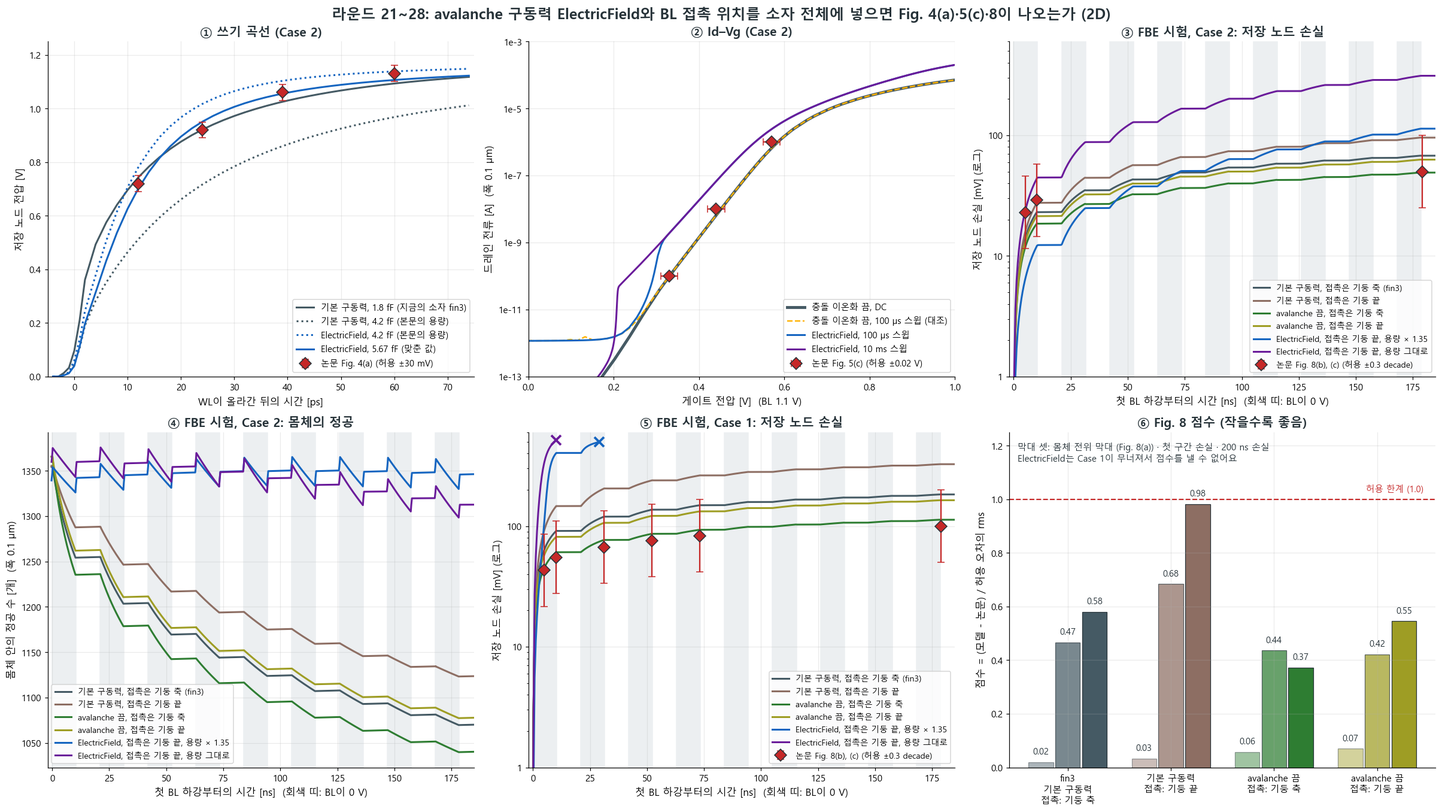
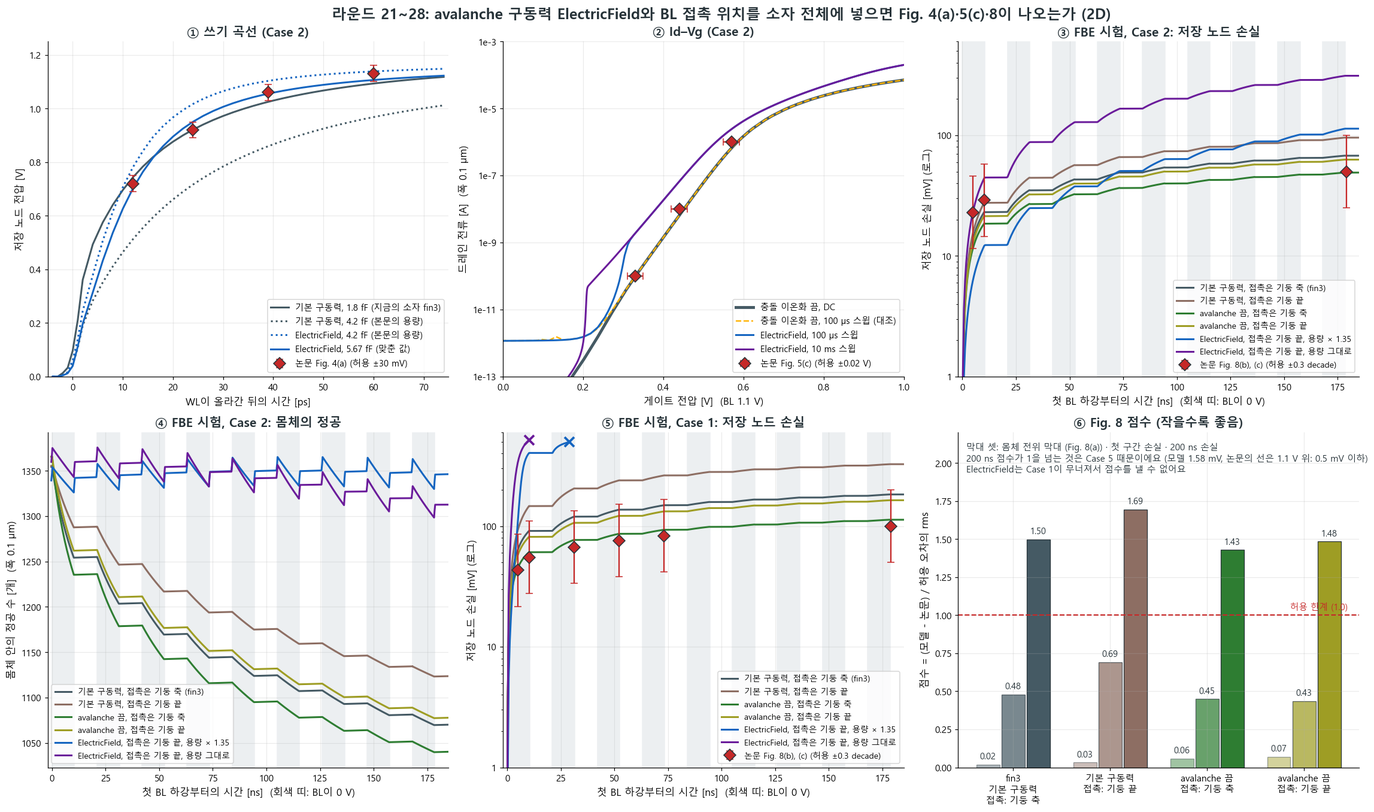
Case 5 re-read: the paper's curve stays on the 1.1 V line; the model's 1.58 mV at 200 ns are a tunnelling leak, not inside
No new runs. The model's Case 5 loss is band-to-band tunnelling at the storage-node junction (13.6 pA, same rate
with the BL low and high, holes stay); the floating-body part is zero as in the paper. Zoom of Fig.8(c) re-read:
0.45 mV per pixel row, Case 5 on the frame row up to 196 ns. Scorer: such a case counts linearly (loss / 0.5 mV).
L2 of fin3 0.58 -> 1.50 (Case 5 alone). Tool gt_fbe_leak.py, table, analysis 4.11, status.

diff --git a/claude/project/tools/gt_fbe_leak.py b/claude/project/tools/gt_fbe_leak.py
@@ -1,0 +1,28 @@
+# gt_fbe_leak.py <run id> ... : FBE runs, what the storage-node loss is made of. Per run, from t_A (just before the first BL fall) to
+# 200 ns of the paper's axis: the loss in mV and as electrons (loss x Cs / q), the electron-hole pairs made in that span by band-to-band
+# tunnelling and by impact ionization (100 nm wide device = integral x 1e-13), the holes in the body at both ends, and the rate of the
+# loss inside the BL-low phases and inside the BL-high phases (0.6 ns away from the edges). A floating-body loss sits in the BL-low
+# phases and takes holes out of the body; a leak that tunnelling at the storage-node junction makes (GIDL) has the same rate in both
+# phases, one electron per pair, and leaves its holes in the body. The last column is the rate in the last 10 ns of the hold.
+import sys, os, glob, json
+sys.path.insert(0, os.path.dirname(os.path.abspath(__file__)))
+from gt_tran import load, at, edges
+from gt_fbe_pairs import cum, W
+RUNS = os.environ.get("GT_RUNS") or os.path.join(os.path.dirname(os.path.abspath(__file__)), "..", "runs"); q = 1.602e-19
+print("run        Cs[fF] | loss t_A -> 200 ns [mV] = electrons | pairs: tunnelling, impact ion. | holes at t_A -> 200 ns | loss rate [uV/ns]: BL low, BL high | = current [pA]: low, high | last 10 ns of the hold")
+for rid in sys.argv[1:]:
+    d = os.path.join(RUNS, rid)
+    try:
+        s = load(os.path.join(d, rid + "_sys.plt")); dv = load(glob.glob(os.path.join(d, "*_dev.plt"))[0]); p = json.load(open(os.path.join(d, "run.json"), encoding="utf-8"))["params"]
+    except Exception as e: print(rid, "no data", e); continue
+    t = s["time"]; T = dv["time"]; k = lambda n: next(x for x in s if n in x); sn = s[k("nSN)")]; bl = s[k("nBL")]
+    f = edges(t, bl, 0, 1.1, False); r = [x for x in edges(t, bl, 0, 1.1, True) if f and x > f[0]]
+    if not f or min(t[-1], T[-1]) < f[0] + 179e-9: print(rid, "does not reach 200 ns"); continue
+    tA = f[0] - 3e-10; tE = f[0] + 179e-9; C = p["Cs"]
+    bb = cum(T, dv[next(x for x in dv if "Band2BandGeneration" in x)]); ii = cum(T, dv[next(x for x in dv if "ImpactIonization" in x)]); hd = dv[next(x for x in dv if "hDensity" in x)]
+    L = (at(t, sn, tA) - at(t, sn, tE)) * 1e3
+    lo = sum(at(t, sn, a + 6e-10) - at(t, sn, b - 6e-10) for a, b in zip(f, r)) / sum((b - 6e-10) - (a + 6e-10) for a, b in zip(f, r))                  # V/s inside the low phases
+    hi = sum(at(t, sn, b + 6e-10) - at(t, sn, a - 6e-10) for b, a in zip(r, f[1:])) / sum((a - 6e-10) - (b + 6e-10) for b, a in zip(r, f[1:]))        # V/s inside the high phases
+    pre = (at(t, sn, tA - 1e-8) - at(t, sn, tA)) / 1e-8
+    print(f"{rid:10s} {C * 1e15:5.2f}  | {L:8.3f} = {L * 1e-3 * C / q:7.1f}            | {(at(T, bb, tE) - at(T, bb, tA)) * W:9.1f} {(at(T, ii, tE) - at(T, ii, tA)) * W:9.1f}       | "
+          f"{at(T, hd, tA) * W:6.0f} -> {at(T, hd, tE) * W:6.0f}      | {lo * 1e-3:8.2f} {hi * 1e-3:7.2f}                 | {lo * C * 1e12:8.1f} {hi * C * 1e12:6.1f}        | {pre * 1e-3:6.2f} uV/ns")

diff --git a/claude/project/tools/gt_avg_tab.py b/claude/project/tools/gt_avg_tab.py
@@ -34,15 +34,15 @@ for tag in sys.argv[1:]:
         o = D[c]; e = EARLY.get(c)
         print(f"   {c}    {o['holes']:5.0f} | {o['avg0']:5.0f} {o['avg1']:5.0f} [{P.FBE_RISE[c]}]" + " " * 34 + f"| {o['cen']:5.0f}" + " " * 15 + f"| {o['sn']:.4f}   | {o['l3']:6.2f} {o['l5']:6.2f}"
               + (f" [{e[1]} at +{e[0]}]" if e else "") + " | " + " ".join(f"{x:7.2f}" for x in o["ph"][:4]) + f"  {o['ph'][8]:7.2f}"
-              + (" [" + " ".join(map(str, PH[c])) + "]" if c in PH else f" [{P.FBE_FIRST[c]}]") + f" | {o['l200']:7.2f} [{P.FBE_200[c]}]")
+              + (" [" + " ".join(map(str, PH[c])) + "]" if c in PH else f" [{P.FBE_FIRST[c]}]") + f" | {o['l200']:7.2f} [{'on the 1.1 V line' if c in P.FBE_FLAT else P.FBE_200[c]}]")
     for lab, key in (("read just before the fall", "avg0"), ("read 0.25 ns after the fall", "avg1")):
         db = [D[c][key] - P.FBE_RISE[c] for c in range(1, 6)]
         print(f"   bars, {lab}: deviation " + " / ".join(f"{x:+.0f}" for x in db) + f" mV (tolerance {P.FBE_RISE_TOL:.0f}): {sum(abs(x) <= P.FBE_RISE_TOL for x in db)} of 5 inside")
     dec = lambda m, p_: math.log10(max(m, P.FLOOR) / p_)
-    d1 = [dec(D[c]["ph"][0], P.FBE_FIRST[c]) for c in range(1, 5)]; d2 = [dec(D[c]["l200"], P.FBE_200[c]) for c in range(1, 6)]
+    d1 = [dec(D[c]["ph"][0], P.FBE_FIRST[c]) for c in range(1, 5)]; d2 = [dec(D[c]["l200"], P.FBE_200[c]) for c in range(1, 5)]; fl = P.FBE_FLAT[5]
     de = [dec(D[c]["l5"] if EARLY[c][0] == 5 else D[c]["l3"], EARLY[c][1]) for c in range(1, 5)]
-    print(f"   first low phase: deviation " + " / ".join(f"{x:+.2f}" for x in d1) + f" decades (tolerance {P.DEC_TOL}), Case 5 {D[5]['ph'][0]:.2f} mV (paper 0, tolerance 1 mV): "
-          f"{sum(abs(x) <= P.DEC_TOL for x in d1) + (D[5]['ph'][0] <= 1.0)} of 5 inside")
-    print(f"   200 ns: deviation " + " / ".join(f"{x:+.2f}" for x in d2) + f" decades: {sum(abs(x) <= P.DEC_TOL for x in d2)} of 5 inside;   3 or 5 ns after the fall: " + " / ".join(f"{x:+.2f}" for x in de)
+    print(f"   first low phase: deviation " + " / ".join(f"{x:+.2f}" for x in d1) + f" decades (tolerance {P.DEC_TOL}), Case 5 {D[5]['ph'][0]:.2f} mV (paper: on the 1.1 V line, tolerance {fl} mV): "
+          f"{sum(abs(x) <= P.DEC_TOL for x in d1) + (D[5]['ph'][0] <= fl)} of 5 inside")
+    print(f"   200 ns: deviation " + " / ".join(f"{x:+.2f}" for x in d2) + f" decades, Case 5 {D[5]['l200']:.2f} mV (paper: on the 1.1 V line, tolerance {fl} mV): {sum(abs(x) <= P.DEC_TOL for x in d2) + (D[5]['l200'] <= fl)} of 5 inside;   3 or 5 ns after the fall: " + " / ".join(f"{x:+.2f}" for x in de)
           + f" decades: {sum(abs(x) <= P.DEC_TOL for x in de)} of 4 inside")
     if all(x == x for x in D[1]["ph"][:4]): print("   Case 1 after low phases 2 - 4: " + " / ".join(f"{x:.0f}" for x in D[1]["ph"][1:4]) + " mV (paper 67 / 76 / 83); Case 4 after two phases: " + f"{D[4]['ph'][1]:.1f} mV (paper 5.2 at 63 ns)")

diff --git a/claude/project/tools/plot_ef_refit.py b/claude/project/tools/plot_ef_refit.py
@@ -69,13 +69,14 @@ d.set(xlim=(-2, 185), xlabel="첫 BL 하강부터의 시간 [ns]  (회색 띠: B
 d.set_title("④ FBE 시험, Case 2: 몸체의 정공", fontsize=13.5, fontweight="bold", color=INK)
 # (f) Fig.8 scores of four configurations
 CF = (("fin3", "fin3\n기본 구동력\n접촉: 기둥 축", FIN), ("fin3b", "기본 구동력\n접촉: 기둥 끝", END), ("fin3n", "avalanche 끔\n접촉: 기둥 축", OFF), ("fin3bn", "avalanche 끔\n접촉: 기둥 끝", OFE))
+tops = []
 for i, (tag, lab, cl) in enumerate(CF):
-    v, txt = S.fbe(tag); print(tag, [round(x, 2) for x in v], txt)
+    v, txt = S.fbe(tag); print(tag, [round(x, 2) for x in v], txt); tops.append(max(v))
     for j, (x, al) in enumerate(zip(v, (0.45, 0.72, 1.0))):
         g.bar(i + (j - 1) * 0.26, x, 0.24, color=cl, alpha=al, ec=INK, lw=0.8); g.text(i + (j - 1) * 0.26, x + 0.02, f"{x:.2f}", ha="center", va="bottom", fontsize=9.5, color=INK)
 g.axhline(1.0, color=PAP, lw=1.4, ls="--"); g.text(3.45, 1.02, "허용 한계 (1.0)", color=PAP, fontsize=9.5, ha="right", va="bottom")
-g.set_xticks(range(len(CF))); g.set_xticklabels([q[1] for q in CF], fontsize=10); g.set_ylabel("점수 = (모델 - 논문) / 허용 오차의 rms", fontsize=11); g.set_ylim(0, 1.25)
-g.text(0.02, 0.97, "막대 셋: 몸체 전위 막대 (Fig. 8(a)) · 첫 구간 손실 · 200 ns 손실\nElectricField는 Case 1이 무너져서 점수를 낼 수 없어요", transform=g.transAxes, fontsize=9.8, va="top", color=INK)
+g.set_xticks(range(len(CF))); g.set_xticklabels([q[1] for q in CF], fontsize=10); g.set_ylabel("점수 = (모델 - 논문) / 허용 오차의 rms", fontsize=11); g.set_ylim(0, max(1.25, max(tops) * 1.3))
+g.text(0.02, 0.97, "막대 셋: 몸체 전위 막대 (Fig. 8(a)) · 첫 구간 손실 · 200 ns 손실\n200 ns 점수가 1을 넘는 것은 Case 5 때문이에요 (모델 1.58 mV, 논문의 선은 1.1 V 위: 0.5 mV 이하)\nElectricField는 Case 1이 무너져서 점수를 낼 수 없어요", transform=g.transAxes, fontsize=9.8, va="top", color=INK)
 g.set_title("⑥ Fig. 8 점수 (작을수록 좋음)", fontsize=13.5, fontweight="bold", color=INK)
 for q in (a, b, c, d, e, g):
     q.grid(alpha=0.25)

diff --git a/claude/project/tools/paper_targets.py b/claude/project/tools/paper_targets.py
@@ -15,7 +15,11 @@ SN_START = 1.10                                       # every FBE / RH curve sta
 FBE_RISE = {1: 555, 2: 445, 3: 365, 4: 320, 5: 368}   # Fig.8(a): body potential rise t = 0 -> t_A [mV]
 FBE_RISE_TOL = 30.0
 FBE_FIRST = {1: 55, 2: 29, 3: 7.1, 4: 3.5, 5: 0.0}    # Fig.8(b), (c): loss at the end of the first low phase [mV]
-FBE_200 = {1: 100, 2: 50, 3: 14.6, 4: 7.0, 5: 1.0}    # loss at 200 ns [mV]
+FBE_200 = {1: 100, 2: 50, 3: 14.6, 4: 7.0, 5: 1.0}    # loss at 200 ns [mV]; Case 5: the first reading's upper bound, kept for the log plots
+# Case 5 re-read on 2026-10-07 (NOTES (bo)): in the zoom of Fig.8(c) (0.45 mV per pixel row) its curve stays on the 1.1 V frame row up to
+# 196 ns (centre of the blue-tinted pixels within 0.2 mV of that row). A case named here is scored linearly, loss / this value [mV], at
+# both instants, in place of the log scale against FBE_FIRST / FBE_200.
+FBE_FLAT = {5: 0.5}
 RH = {"yy": 0.0535, "zz": 0.0100}                     # Fig.6(e), impact ionization off: mV per cycle (Y-Y', Z-Z'); X-X' 0.0060 needs 3D
 RH_II = {"yy": 0.0535, "zz_drop": 520.0, "zz_gnd": 0.036}    # Fig.7: Y-Y' unchanged; Z-Z' 1.1 -> 0.58 V in the window [mV]; grounded body 16.8k cycles
 DEC_TOL = 0.3                                         # decades, for losses and per-cycle numbers

diff --git a/claude/project/tools/score2d.py b/claude/project/tools/score2d.py
@@ -76,8 +76,9 @@ def fbe(tag):
         rise = (at(T, dv[ka[0]], f[0] + AVGREAD[tag]) - dv[ka[0]][0]) * 1e3 if ka else (at(T, dv[kv], tA) - dv[kv][0]) * 1e3; v0 = at(t, sn, t0)
         l1 = (v0 - at(t, sn, r[0] - 3e-10)) * 1e3; l2 = (v0 - at(t, sn, min(t[-1], t0 + 2e-7))) * 1e3 if t[-1] >= t0 + 1.9e-7 else None
         er.append((rise - P.FBE_RISE[c]) / P.FBE_RISE_TOL)
-        e1.append(elog(l1, P.FBE_FIRST[c]) if P.FBE_FIRST[c] > 0 else l1 / 1.0)
-        if l2 is not None: e2.append(elog(l2, P.FBE_200[c]))
+        flat = P.FBE_FLAT.get(c)                      # curve on the 1.1 V line in the paper: linear, loss / reading error
+        e1.append(l1 / flat if flat else elog(l1, P.FBE_FIRST[c]))
+        if l2 is not None: e2.append(l2 / flat if flat else elog(l2, P.FBE_200[c]))
         txt.append(f"c{c} rise {rise:+.0f} first {l1:.2f} 200ns {'-' if l2 is None else format(l2, '.2f')} (SN0 {v0:.3f})")
     return (rms(er), rms(e1), rms(e2)), "; ".join(txt)
 

diff --git a/claude/project/NOTES.md b/claude/project/NOTES.md
@@ -3,6 +3,44 @@
 Newest first. Entries (ai) .. (as) were written while this work still lived in `bcvfet_tcad`; file and run names in them are
 the ones of that time (structures `gx_*` / `gp_*` are the meshes before the doping went per region, `gr_*` the current ones).
 
+## 2026-10-07 (bo) user: "why is the paper's Case 5 at 0 at the start, what differs from ours?" - in the model, too, Case 5 loses nothing to the floating body; its 0.13 -> 1.58 mV is tunnelling at the storage-node junction (13.6 pA). The paper's curve stays on the 1.1 V line: the 1.58 mV at 200 ns are NOT inside. Score target corrected
+- No new runs. Tool: `gt_fbe_leak.py` (loss as electrons, pairs by tunnelling / impact ionization, holes in the body, rate of the loss inside
+  the BL-low and inside the BL-high phases).
+- Model, `fin3` (Ds2F), from t_A to 200 ns:
+    case | loss [mV] = electrons | pairs: tunnelling / impact ion. | holes t_A -> 200 ns | rate BL low / BL high [uV/ns] = [pA]
+    1    | 182.9  = 2496         |    7.1 / 310.3                  | 1579 -> 1139        | 1932 / 3.17 = 4222 / 6.9
+    2    |  67.8  =  761         |    0.4 / 119.1                  | 1354 -> 1070        |  732 / 5.62 = 1317 / 10.1
+    3    |  13.8  =  133         |  -12.8 /  23.9                  | 1294 -> 1011        |  145 / 6.23 =  224 / 9.6
+    4    |  10.1  =   97         |   -7.7 /  17.6                  | 1118 ->  832        |  105 / 5.71 =  162 / 8.8
+    5    |   1.577 =  15.2       |   14.0 /   1.8                  | 1335 -> 1351        | 8.82 / 8.78 = 13.6 / 13.6
+  Case 5: the same rate with the BL low and with the BL high, the holes stay in the body (they grow by the 16 pairs), electrons lost =
+  pairs made (15.2 against 15.8). That is the leak of the storage-node junction under the gate edge (band-to-band tunnelling with the
+  WL at 0 V and the node at 1.1 V; (au): 3.44 MV/cm at that corner), not a floating-body loss. The same with the avalanche model off
+  (DdlF_c5: 15.7 pairs, 1.577 mV), with 1134 / 1413 holes in the body (Dh1F_c5, DfinF_c5: 14.0 / 13.9 pairs), and in every case while the
+  BL is high (6.9 - 10.1 pA in Cases 1 - 4; Case 5 has the most, as its GIDL branch in Fig.5(c) is the highest).
+  The floating-body part of Case 5 is zero because its threshold is 0.30 V higher (Fig.5(c): 0.57 / 0.69 / 0.81 V against 0.27 / 0.39 /
+  0.51 V of Case 4; paper 0.53 / 0.65 / 0.78 against 0.26 / 0.39 / 0.51). The paper's own label in Fig.8(c) says the same (V_th0 larger
+  with WF 5.0 eV).
+- Paper, zoom of Fig.8(c) read again from the embedded image (frame rows 462 .. 683 = 1.1 .. 1.0 V, 0.452 mV per row; check of the scale:
+  Case 3 ends 14.0 mV down, Case 4 goes 2.8 -> 5.0 mV before the inset hides it): the blue-tinted pixels of Case 5 sit ON the top frame
+  row from 124 ns to 196 ns (their centre -0.12 .. +0.17 mV from that row in six bands of 20 columns; before 124 ns the tint cannot be
+  told from the frame). So the paper's Case 5 is "on the 1.1 V line within one pixel row (0.45 mV)" over the whole 200 ns, not "0 -> 1.0
+  mV": the 1.0 of `paper_targets.FBE_200[5]` was the upper bound of the first reading ((au): "within 1 mV").
+- What follows: the 0.13 mV of the first low phase are below a pixel, there is no difference to explain. At 200 ns the model's 1.58 mV
+  would lie 3.5 rows under the frame: NOT what the paper shows. With the text's 3.6 fF the same 15 - 17 electrons are 0.68 - 0.74 mV
+  (Db0F_c5: 0.738 mV), 1.6 rows. Bound from the figure: I <= C x 0.45 mV / 179 ns = 3.9 pA (1.54 fF) or 9.1 pA (3.6 fF); the model has
+  13.6 pA. Two things the paper leaves open decide it: the storage capacitor of the transient (1.54 fF for the 10 nm bodies from the fit
+  of the write curve, 3.6 fF in the text) and the size of the tunnelling leak in the hold state. The Hurkx A was fitted at Vg = -1 V of
+  Fig.5(c), where the field is 0.91 MV/cm ((au)); the hold corner has 3.44 MV/cm, so the hold leak is an extrapolation and goes as
+  exp(B x 8.1e-7 cm/V) against the fitted point. Estimate from those two fields, NOT run: B 2.25e7 -> 2.1e7 V/cm with A re-fitted (about
+  3.5e20) would cut the hold leak by about 3. The same change makes the GIDL branch less steep, and the model's minimum current is 0.2 -
+  0.9 decade under the paper's in all five cases (-17.1 .. -17.3 against -16.4 .. -16.9).
+- Scoring corrected (my reading, not a new condition): `paper_targets.FBE_FLAT = {5: 0.5}`: a case whose curve stays on the 1.1 V line is
+  scored linearly, loss / 0.5 mV, at both instants (`score2d.py`, `gt_avg_tab.py`; FBE_200[5] = 1.0 stays for the log plots). Scores L1 /
+  L2 now: fin2 2.97 / 2.01 (was 2.97 / 1.44), fin 0.85 / 1.47 (0.84 / 0.51), `fin3` 0.48 / 1.50 (0.47 / 0.58), fin3b 0.69 / 1.69 (0.68 /
+  0.98), fin3n 0.45 / 1.43 (0.44 / 0.37), fin3bn 0.43 / 1.48 (0.42 / 0.55). Cases 1 - 4 are unchanged; the whole rise of L2 is Case 5 at
+  200 ns (1.58 / 0.5 = 3.2). "Every number of Fig.8 inside its tolerance" ((bk)) holds for 14 of the 15 numbers, not for this one.
+
 ## 2026-10-07 (bn) user: "run (가)" - the device set up with the driving force ElectricField and the BL contact at the pillar end (rounds 21 - 28): it does not carry Fig.5(c) and Fig.8. By-products: the contact position sets the gain of the parasitic BJT; without any avalanche model Fig.8 fits better
 - Why: (bm) left the driving force coupled to the write curve (with ElectricField the text's 4.2 fF nearly fits Fig.4(a)) and the Fig.7
   candidate needing a BL contact at the pillar end, while `fin3` has the default driving force and the contact on the pillar axis. The user

diff --git a/claude/reports/GT_IRPS2026_2D_소자완성_보고_2026-10-06.md b/claude/reports/GT_IRPS2026_2D_소자완성_보고_2026-10-06.md
@@ -570,3 +570,44 @@ ElectricField에서 용량을 5.04 / 5.88 / 6.72 fF로 바꾸면 점수가 1.03 
 |---|---|---|
 | A. Fig. 4(a)·8에서 avalanche 모델 | 끔: 0.73 / 1.11 / 0.06 / 0.44 / 0.37. 켬 (지금): 0.73 / 0.93 / 0.02 / 0.47 / 0.58 | 끔. 논문은 이 모델을 Fig. 7에서만 말해요. 끄면 Fig. 7의 구동력이 다른 그림과 묶이지 않아요 |
 | B. BL 접촉 위치 | 기둥 축 (지금). 기둥 끝: A를 끈 상태에서 0.73 / 1.12 / 0.07 / 0.42 / 0.55 | 기둥 끝. Fig. 7 후보는 이 접촉에서만 살아요. 대가는 200 ns 점수 0.37 → 0.55 |
+
+### 9.18 Case 5: 논문의 0과 우리의 0.13 mV (2026-10-07 밤, 사용자 질문)
+
+**질문 (사용자).** Case 5에서 논문은 시작이 0인데, 우리(0.13 mV)와 무엇이 달라서인가.
+
+**한 줄로.** 첫 구간의 0과 0.13 mV는 차이가 아니에요. 논문 그림의 픽셀 한 줄이 0.45 mV라서 0.13 mV는 보이지 않아요. FBE 누설이 없다는 점은 우리 모델도 논문과 같아요. 우리 값 0.13 → 1.58 mV는 FBE가 아니라 저장 노드 접합의 GIDL 누설이에요. 진짜 차이는 200 ns에 있어요. 우리 1.58 mV, 논문 0.5 mV 이하예요. 새 실행은 없어요.
+
+**용어.** GIDL(gate-induced drain leakage): 게이트가 0 V이고 옆의 N+가 1.1 V일 때, 게이트 가장자리 접합의 강한 전기장에서 band-to-band tunnelling으로 전자–정공 쌍이 생기는 누설이에요. 전자는 N+(저장 노드)로, 정공은 몸체로 가요.
+
+1. **논문이 0인 이유.** 논문은 Fig. 8(c)에 "V_th0(WF = 5.0 eV) > V_th0(WF = 4.7 eV)"라고 적었어요. 게이트 일함수가 0.3 eV 크면 문턱 전압이 약 0.3 V 높아요 (Fig. 5(c)에서 Case 4 0.26 / 0.39 / 0.51 V, Case 5 0.53 / 0.65 / 0.78 V). subthreshold 전류는 60 mV마다 10배씩 줄어요. 0.3 V면 10⁵배 작아요. 그래서 몸체 전위가 368 mV 올라도 WL 0 V에서 채널이 열리지 않아요.
+2. **우리 모델도 같아요.** `fin3`의 Case 5 (`project/tools/gt_fbe_leak.py`):
+
+| | Case 3 | Case 4 | Case 5 |
+|---|---:|---:|---:|
+| 손실 속도, BL이 0 V인 구간 [µV/ns] | 145 | 105 | 8.82 |
+| 손실 속도, BL이 1.1 V인 구간 [µV/ns] | 6.2 | 5.7 | 8.78 |
+| 몸체의 정공, t_A → 200 ns [개] | 1294 → 1011 | 1118 → 832 | 1335 → 1351 |
+| 노드가 잃은 전자, t_A → 200 ns [개] | 133 | 97 | 15.2 |
+| 그동안 생긴 쌍: tunnelling / 충돌 이온화 | −12.8 / 23.9 | −7.7 / 17.6 | 14.0 / 1.8 |
+
+   - FBE 손실은 BL이 0 V일 때만 생기고, 몸체의 정공이 빠져나가요 (Case 3, 4).
+   - Case 5는 BL이 높든 낮든 속도가 같아요. 정공도 빠져나가지 않아요. 잃은 전자 15.2개는 생긴 쌍 15.8개와 같아요.
+   - 즉 Case 5의 손실은 전부 저장 노드 접합의 GIDL이에요. 전류로는 13.6 pA예요 (I = C·dV/dt = 1.54 fF × 8.8 µV/ns).
+   - 이 누설은 다른 Case에도 있어요 (BL이 높은 구간 6.9~10.1 pA). FBE 손실에 가려 있을 뿐이에요.
+   - avalanche 모델을 꺼도, 몸체의 정공을 1134 / 1413개로 바꿔도 같아요 (1.58 / 1.60 / 1.57 mV).
+3. **논문 그림을 다시 읽었어요.** Fig. 8(c) 확대 그림은 한 픽셀 줄이 0.45 mV예요 (1.0~1.1 V가 221줄. Case 3의 끝값 14.0 mV로 눈금을 확인). Case 5의 파란 선은 124 ns부터 196 ns까지 1.1 V 틀 선과 같은 줄에 있어요 (중심이 −0.12 ~ +0.17 mV). 그러니 논문의 Case 5는 "0 → 1.0 mV"가 아니라 "200 ns까지 0.5 mV 이하"예요. 표에 쓴 1.0은 처음 읽을 때의 상한("1 mV 이내")이었어요.
+4. **그래서 차이는 200 ns예요.** 우리 1.58 mV는 그 그림에서 3.5줄 아래라서 보였어야 해요. 논문에는 없어요. 후보는 둘이에요.
+   - 저장 노드 용량: 같은 전자 15~17개가 본문의 3.6 fF에서는 0.68~0.74 mV예요 (3.6 fF로 돌린 `Db0F_c5`: 0.738 mV). 우리는 쓰기 곡선에 맞춘 1.54 fF를 써요.
+   - GIDL의 크기: Hurkx 계수 A는 Fig. 5(c)의 Vg = −1 V 한 점에 맞췄어요. 거기의 전기장은 0.91 MV/cm예요. FBE 조건의 저장 노드 모서리는 3.44 MV/cm예요. 그래서 이 누설은 맞춘 범위 밖의 외삽이고, 계수 B에 민감해요.
+   - 그림이 허용하는 누설: 1.54 fF면 3.9 pA 이하, 3.6 fF면 9.1 pA 이하 (I ≤ C × 0.45 mV / 179 ns). 우리 모델은 13.6 pA예요.
+   - 어느 쪽인지는 논문에서 가릴 수 없어요. 역산 대상이에요.
+5. **점수표를 고쳤어요.** 1.1 V 선 위에 있는 Case는 로그가 아니라 "손실 / 0.5 mV"로 채점해요 (`paper_targets.FBE_FLAT`). Case 1~4의 값은 그대로예요.
+
+| 구성 | 첫 구간 점수 (전 → 후) | 200 ns 점수 (전 → 후) |
+|---|---:|---:|
+| `fin3` | 0.47 → 0.48 | 0.58 → 1.50 |
+| `fin3` + 끝 접촉 | 0.68 → 0.69 | 0.98 → 1.69 |
+| avalanche 끔, 축 접촉 | 0.44 → 0.45 | 0.37 → 1.43 |
+| avalanche 끔, 끝 접촉 | 0.42 → 0.43 | 0.55 → 1.48 |
+
+   200 ns 점수가 1을 넘는 것은 Case 5 하나 때문이에요 (1.58 / 0.5 = 3.2). "Fig. 8의 모든 값이 허용치 안"이라고 한 것은 15개 중 14개에 대해서만 맞아요.

diff --git a/claude/ANALYSIS.md b/claude/ANALYSIS.md
@@ -552,6 +552,47 @@ BL 주기별로 본 Case 2 (`project/tools/gt_fbe_pairs.py`):
 
 avalanche 모델을 Fig. 4(a)·5(c)·8에서 빼면 Fig. 7의 구동력을 무엇으로 고르든 다른 그림이 움직이지 않아요. 5.7절에서 걸렸던 "커패시터와 구동력이 묶여 있다"는 문제가 없어져요. 다만 이것은 사용자 조건을 바꾸는 일이라 채택하지 않았어요. `fin3`는 그대로예요.
 
+### 4.11 Case 5: 논문의 0과 우리의 0.13 mV, 그리고 200 ns의 차이 (2026-10-07 밤, 사용자 질문)
+
+**질문 (사용자).** Case 5에서 논문은 시작이 0인데, 우리(0.13 mV)와 무엇이 달라서인가.
+
+**한 줄로.** 첫 구간의 0과 0.13 mV는 차이가 아니에요. 논문 그림의 픽셀 한 줄이 0.45 mV라서 0.13 mV는 보이지 않아요. FBE 누설이 없다는 점은 우리 모델도 논문과 같아요. 우리 값 0.13 → 1.58 mV는 FBE가 아니라 저장 노드 접합의 GIDL 누설이에요. 진짜 차이는 200 ns에 있어요. 우리 1.58 mV, 논문 0.5 mV 이하예요. 새 실행은 없어요.
+
+**용어.** GIDL(gate-induced drain leakage): 게이트가 0 V이고 옆의 N+가 1.1 V일 때, 게이트 가장자리 접합의 강한 전기장에서 band-to-band tunnelling으로 전자–정공 쌍이 생기는 누설이에요. 전자는 N+(저장 노드)로, 정공은 몸체로 가요.
+
+1. **논문이 0인 이유.** 논문은 Fig. 8(c)에 "V_th0(WF = 5.0 eV) > V_th0(WF = 4.7 eV)"라고 적었어요. 게이트 일함수가 0.3 eV 크면 문턱 전압이 약 0.3 V 높아요 (Fig. 5(c)에서 Case 4 0.26 / 0.39 / 0.51 V, Case 5 0.53 / 0.65 / 0.78 V). subthreshold 전류는 60 mV마다 10배씩 줄어요. 0.3 V면 10⁵배 작아요. 그래서 몸체 전위가 368 mV 올라도 WL 0 V에서 채널이 열리지 않아요.
+2. **우리 모델도 같아요.** `fin3`의 Case 5 (`project/tools/gt_fbe_leak.py`):
+
+| | Case 3 | Case 4 | Case 5 |
+|---|---:|---:|---:|
+| 손실 속도, BL이 0 V인 구간 [µV/ns] | 145 | 105 | 8.82 |
+| 손실 속도, BL이 1.1 V인 구간 [µV/ns] | 6.2 | 5.7 | 8.78 |
+| 몸체의 정공, t_A → 200 ns [개] | 1294 → 1011 | 1118 → 832 | 1335 → 1351 |
+| 노드가 잃은 전자, t_A → 200 ns [개] | 133 | 97 | 15.2 |
+| 그동안 생긴 쌍: tunnelling / 충돌 이온화 | −12.8 / 23.9 | −7.7 / 17.6 | 14.0 / 1.8 |
+
+   - FBE 손실은 BL이 0 V일 때만 생기고, 몸체의 정공이 빠져나가요 (Case 3, 4).
+   - Case 5는 BL이 높든 낮든 속도가 같아요. 정공도 빠져나가지 않아요. 잃은 전자 15.2개는 생긴 쌍 15.8개와 같아요.
+   - 즉 Case 5의 손실은 전부 저장 노드 접합의 GIDL이에요. 전류로는 13.6 pA예요 (I = C·dV/dt = 1.54 fF × 8.8 µV/ns).
+   - 이 누설은 다른 Case에도 있어요 (BL이 높은 구간 6.9~10.1 pA). FBE 손실에 가려 있을 뿐이에요.
+   - avalanche 모델을 꺼도, 몸체의 정공을 1134 / 1413개로 바꿔도 같아요 (1.58 / 1.60 / 1.57 mV).
+3. **논문 그림을 다시 읽었어요.** Fig. 8(c) 확대 그림은 한 픽셀 줄이 0.45 mV예요 (1.0~1.1 V가 221줄. Case 3의 끝값 14.0 mV로 눈금을 확인). Case 5의 파란 선은 124 ns부터 196 ns까지 1.1 V 틀 선과 같은 줄에 있어요 (중심이 −0.12 ~ +0.17 mV). 그러니 논문의 Case 5는 "0 → 1.0 mV"가 아니라 "200 ns까지 0.5 mV 이하"예요. 표에 쓴 1.0은 처음 읽을 때의 상한("1 mV 이내")이었어요.
+4. **그래서 차이는 200 ns예요.** 우리 1.58 mV는 그 그림에서 3.5줄 아래라서 보였어야 해요. 논문에는 없어요. 후보는 둘이에요.
+   - 저장 노드 용량: 같은 전자 15~17개가 본문의 3.6 fF에서는 0.68~0.74 mV예요 (3.6 fF로 돌린 `Db0F_c5`: 0.738 mV). 우리는 쓰기 곡선에 맞춘 1.54 fF를 써요.
+   - GIDL의 크기: Hurkx 계수 A는 Fig. 5(c)의 Vg = −1 V 한 점에 맞췄어요. 거기의 전기장은 0.91 MV/cm예요. FBE 조건의 저장 노드 모서리는 3.44 MV/cm예요. 그래서 이 누설은 맞춘 범위 밖의 외삽이고, 계수 B에 민감해요.
+   - 그림이 허용하는 누설: 1.54 fF면 3.9 pA 이하, 3.6 fF면 9.1 pA 이하 (I ≤ C × 0.45 mV / 179 ns). 우리 모델은 13.6 pA예요.
+   - 어느 쪽인지는 논문에서 가릴 수 없어요. 역산 대상이에요.
+5. **점수표를 고쳤어요.** 1.1 V 선 위에 있는 Case는 로그가 아니라 "손실 / 0.5 mV"로 채점해요 (`paper_targets.FBE_FLAT`). Case 1~4의 값은 그대로예요.
+
+| 구성 | 첫 구간 점수 (전 → 후) | 200 ns 점수 (전 → 후) |
+|---|---:|---:|
+| `fin3` | 0.47 → 0.48 | 0.58 → 1.50 |
+| `fin3` + 끝 접촉 | 0.68 → 0.69 | 0.98 → 1.69 |
+| avalanche 끔, 축 접촉 | 0.44 → 0.45 | 0.37 → 1.43 |
+| avalanche 끔, 끝 접촉 | 0.42 → 0.43 | 0.55 → 1.48 |
+
+   200 ns 점수가 1을 넘는 것은 Case 5 하나 때문이에요 (1.58 / 0.5 = 3.2). "Fig. 8의 모든 값이 허용치 안"이라고 한 것은 15개 중 14개에 대해서만 맞아요.
+
 ## 5. 로우 해머
 
 ### 5.1 WL 저항 200 kΩ (Fig. 7(b)의 R)

diff --git a/claude/project/CLAUDE.md b/claude/project/CLAUDE.md
@@ -93,13 +93,13 @@ Run names must differ by more than letter case (the PC's file system is case-bli
   `-w` write phase, `-k` sizing of the hole supply), `gt_fig5c.py` (Id-Vg against Fig.5(c)), `gt_fig4a.py` (write curve), `gt_tran.py` (transients: loss, probes,
   generation), `gt_fbe_tab.py` (five FBE cases against Fig.8 in one table), `gt_avg_tab.py` (the same with the reading of `fin3`), row-hammer
   pairs: `gt_rh_hist.py` (node per cycle per configuration), `gt_rh_pairs.py` (pairs and holes per cycle, holes through each contact),
-  `gt_rh_body.py`, `gt_rh_wave.py` (inside the cycles), `gt_write_tab.py` (write runs against Fig.4(a)), `gt_fbe_pairs.py` (pairs and body holes per BL period of an FBE run), `plot_ef_refit.py` (picture of rounds 21 - 28), `_rh_tab.sh` + `plot_rh_transfer.py` (table and picture of rounds 16 - 19), `gt_hold.py`, `gt_iv_at.py`, `gt_steps.py` (how a
+  `gt_rh_body.py`, `gt_rh_wave.py` (inside the cycles), `gt_write_tab.py` (write runs against Fig.4(a)), `gt_fbe_pairs.py` (pairs and body holes per BL period of an FBE run), `gt_fbe_leak.py` (what the loss is made of: electrons, pairs, rate with the BL low / high), `plot_ef_refit.py` (picture of rounds 21 - 28), `_rh_tab.sh` + `plot_rh_transfer.py` (table and picture of rounds 16 - 19), `gt_hold.py`, `gt_iv_at.py`, `gt_steps.py` (how a
   run stepped), `gt_map.sh` (peak field / generation in a window of a saved plot), `man_grep.sh` (search the installed
   Sentaurus manual), `gt_log.sh`, `plot_gt.py`, `plot_gt3.py`. `tools/_q.sh` = scratch script for one-off server queries that
   need quotes or loops (the remote shell is tcsh).
 - `NOTES.md`: decisions, checks and results, newest first. Keep it current.
 
-## State (2026-10-07; details NOTES (ax) .. (bn))
+## State (2026-10-07; details NOTES (ax) .. (bo))
 **User, 2026-10-07: the authors cannot be asked. What the paper leaves open is back-calculated from its figures and labelled as such.**
 Back-calculated so far (NOTES (bk)): Fig.8(a) reads the body potential as the AVERAGE electrostatic potential of the body under the gate,
 counted from the start of the transient, at the first BL edge (not the body-centre point before the fall: with that reading bars and
@@ -135,6 +135,13 @@ Rounds 15 - 20 of 2026-10-07 (NOTES (bl), (bm)); `fin3` is unchanged by them:
   only), stand-in rate x 1.23 / 1.195 / 1.14 / 1.135 / 1.18: 0.73 / 1.11 / 0.06 / 0.44 / 0.37 with the axis contact (`fin3n`), 0.73 / 1.12 / 0.07 /
   0.42 / 0.55 with the end contact (`fin3bn`); the driving force of Fig.7 then touches no other figure. "Impact ionization on in the FBE"
   is the user's condition of 2026-10-06 and stands until the user changes it.
+- Case 5 looked at again (NOTES (bo), `tools/gt_fbe_leak.py`): in the model it loses nothing to the floating body (same loss rate with the
+  BL low and high, the holes stay); its 0.13 -> 1.58 mV is band-to-band tunnelling at the storage-node junction, 13.6 pA. In the zoom
+  of Fig.8(c) the paper's curve stays on the 1.1 V line within one pixel row (0.45 mV) up to 196 ns, so the 1.58 mV at 200 ns are NOT
+  inside. The scorer now counts a case on the 1.1 V line linearly (loss / 0.5 mV, `paper_targets.FBE_FLAT`). Scores first-phase / 200 ns
+  with that: `fin3` 0.48 / 1.50, fin3b 0.69 / 1.69, fin3n 0.45 / 1.43, fin3bn 0.43 / 1.48 (the values 0.47 / 0.58 etc. above were made
+  with 1.0 mV as Case 5's value; Cases 1 - 4 are unchanged). Open: storage capacitor of the transient (1.54 fF fitted, 3.6 fF in the
+  text) or the hold-state tunnelling leak (Hurkx B is not fixed by the one point of Fig.5(c) that A was fitted to).
 What follows describes `fin2`, the configuration before this step.
 The 2D device is configuration `fin2` = the runs DfinI_c1..5, DfinW_c2, Dh1F_c1..5, DfinR* (`COMPOSE` in tools/score2d.py; the
 user's decisions of the afternoon of 2026-10-06 are in it):

diff --git a/claude/STATUS.md b/claude/STATUS.md
@@ -1,12 +1,21 @@
-# 현황 — Claude, 2026-10-07 19:05 KST
+# 현황 — Claude, 2026-10-07 19:45 KST
 
 범위는 2D 단면 모델이에요. 3D는 구조를 다시 만들어 논문 Fig. 2와 맞춰 본 데까지 했고, 실행은 사용자 지시를 기다려요.
 
 ## 한 줄로
 
-Id–Vg(Fig. 5(c)), 쓰기 곡선(Fig. 4(a)), FBE(Fig. 8)는 구성 `fin3`에서 모두 허용치 안이에요. 단 Fig. 8은 몸체 정공 전하를 조건으로 넣고, 몸체 전위를 읽는 방법을 역산한 결과예요 (3D 단위 셀 Case 2에서도 확인).
+Id–Vg(Fig. 5(c)), 쓰기 곡선(Fig. 4(a)), FBE(Fig. 8)는 구성 `fin3`에서 허용치 안이에요. 예외는 하나예요: Case 5의 200 ns 손실 (모델 1.58 mV, 논문 0.5 mV 이하. 19:45 항목). 단 Fig. 8은 몸체 정공 전하를 조건으로 넣고, 몸체 전위를 읽는 방법을 역산한 결과예요 (3D 단위 셀 Case 2에서도 확인).
 로우 해머(Fig. 6(e), Fig. 7)는 아직 재현되지 않았어요. 다만 Fig. 7의 현상을 내는 후보 기구를 얻었어요: 공격 셀의 충돌 이온화 정공이 BL 기둥을 지나 피해 셀 몸체로 넘어가는 것 (크기는 논문보다 작고 Y–Y'는 안 맞음). 정공 전하의 출처는 열려 있어요.
 그 후보가 쓰는 구동력 ElectricField를 소자 전체에 넣는 길은 라운드 21~28에서 기각했어요 (Fig. 5(c)와 Fig. 8이 깨짐). `fin3`는 그대로예요.
+
+## 2026-10-07 19:45: Case 5를 다시 봤어요 (사용자 질문, 새 실행 없음)
+
+자세한 것은 [ANALYSIS.md](ANALYSIS.md) 4.11절, 표 `data/tables/fbe_leak_split_case5.txt`.
+
+- **정정.** 논문 Fig. 8(c) 확대 그림에서 Case 5의 선은 200 ns까지 1.1 V 틀 선과 같은 픽셀 줄에 있어요 (한 줄 0.45 mV). 지금까지 목표값으로 쓴 "200 ns에 1.0 mV"는 처음 읽을 때의 상한이었어요.
+- **모델의 Case 5.** FBE 손실은 없어요 (BL이 낮은 구간과 높은 구간의 손실 속도가 8.82 / 8.78 µV/ns로 같고, 몸체의 정공이 1335 → 1351개로 빠져나가지 않아요). 0.13 → 1.58 mV는 저장 노드 접합의 GIDL(band-to-band tunnelling) 13.6 pA예요.
+- **맞지 않는 것이 하나 늘었어요.** Case 5의 200 ns 손실: 모델 1.58 mV, 논문 0.5 mV 이하. 후보는 과도 해석의 저장 노드 용량(맞춘 값 1.54 fF, 본문 3.6 fF면 0.68~0.74 mV)과 유지 상태의 GIDL 크기(Hurkx B)예요.
+- **점수표 수정.** 1.1 V 선 위에 있는 Case는 "손실 / 0.5 mV"로 채점해요. 첫 구간 / 200 ns 점수: `fin3` 0.48 / 1.50 (전 0.47 / 0.58), 끝 접촉 0.69 / 1.69, avalanche 끔 0.45 / 1.43, avalanche 끔 + 끝 접촉 0.43 / 1.48. Case 1~4의 값은 그대로예요. 이 문서의 아래쪽에 적힌 이전 점수는 Case 5를 1.0 mV로 본 값이에요.
 
 ## 2026-10-07 19시: 사용자 지시 "(가) 실행" (라운드 21~28)
 
